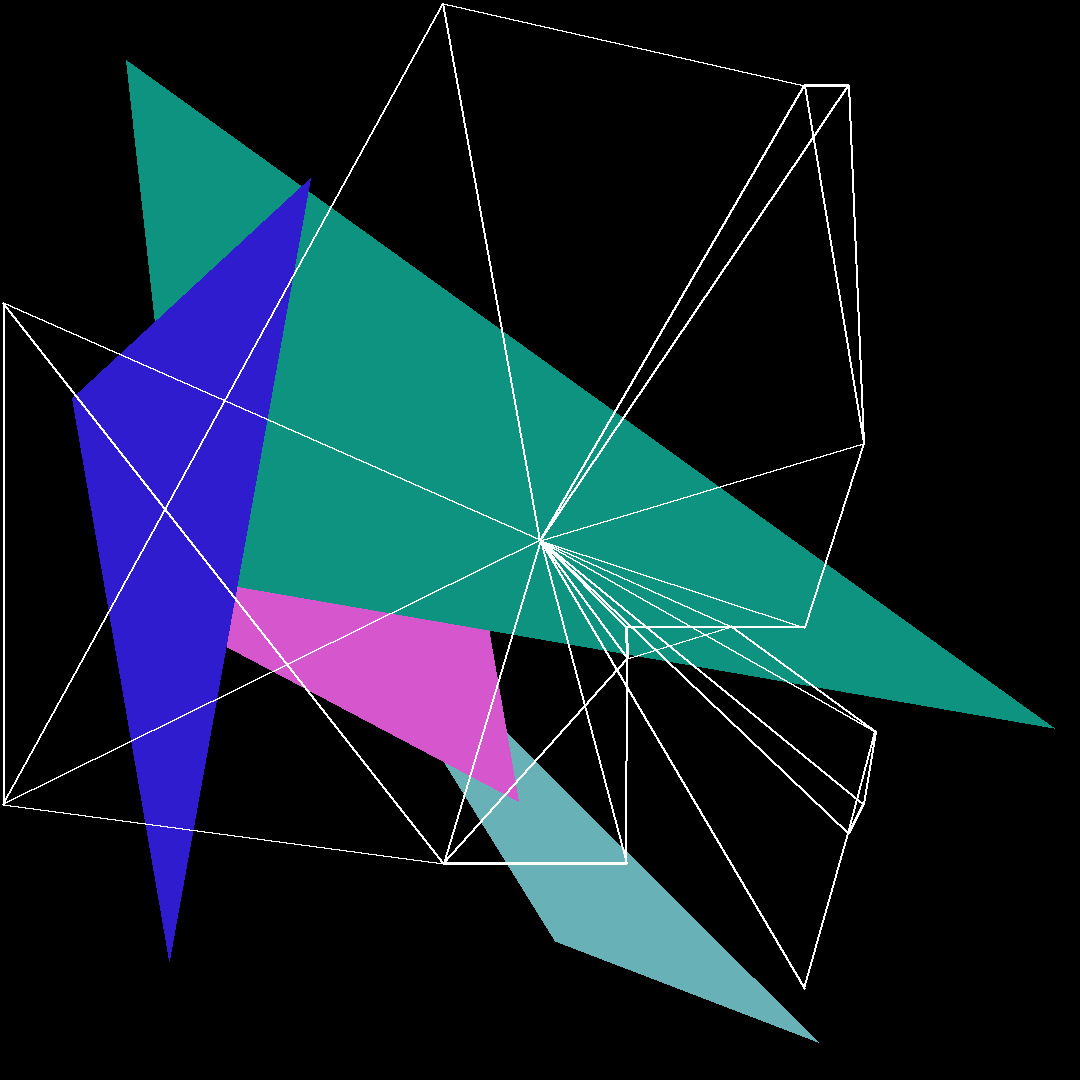
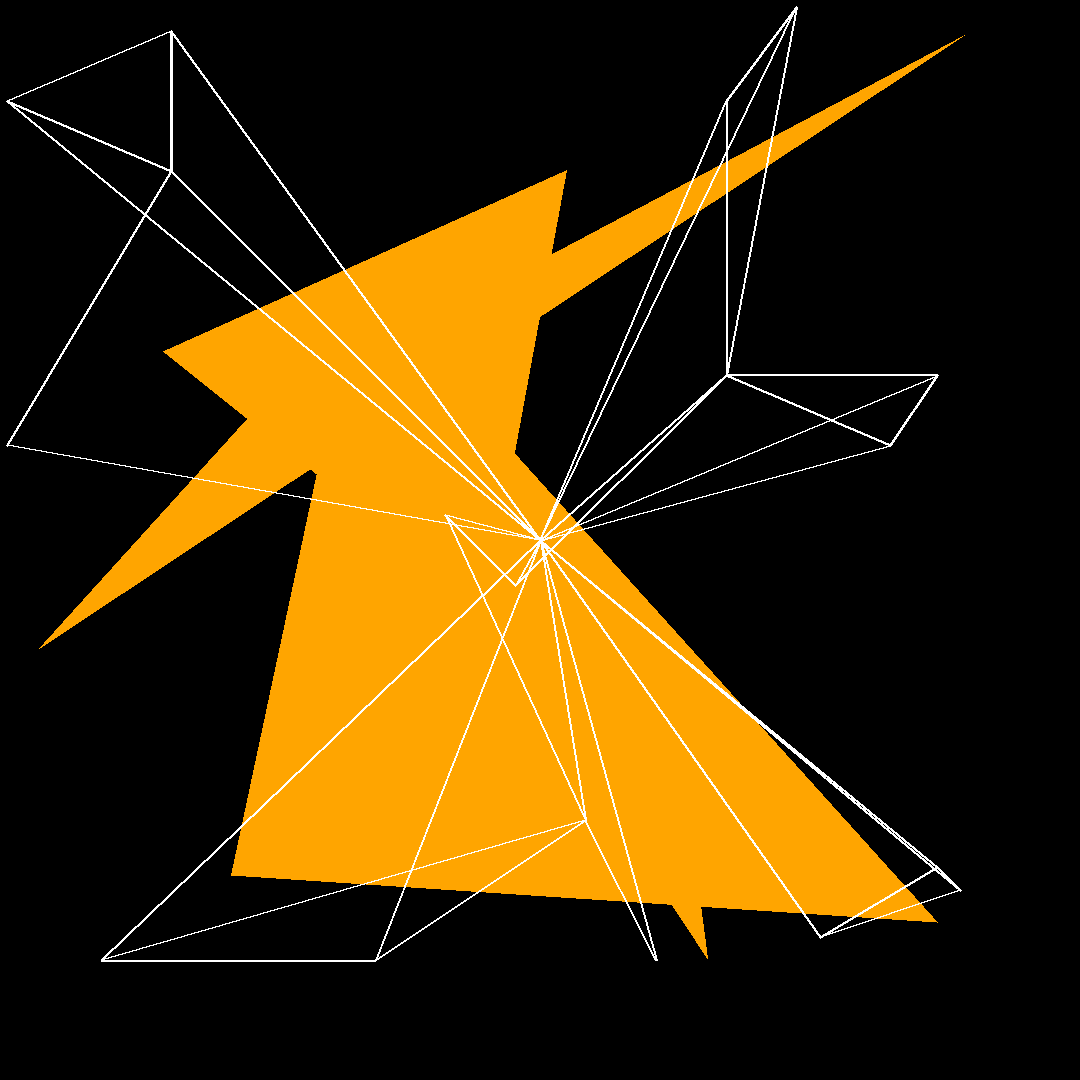
changes
-

diff --git a/generative_art.py b/generative_art.py
@@ -25,8 +25,8 @@ def draw_points(draw: ImageDraw, points: [], num_lines: int):
         draw.line(line_xy, fill=line_colour, width = 2)
 
 def normalise(x: int) -> int:
-    x = x**5
-    x = x // 1028
+    x = x*9000
+    x = x // 128
     x = x%1000
     return x
 
@@ -72,8 +72,8 @@ def make_image(hash_str: str):
     line_colour = (255,255,255)
 
     for i in range(4):
-        draw.polygon(generate_random_polygon(3, image_size, image_size, image_padding), fill = (random.randint(0,256),random.randint(0,256), random.randint(0,256)))
-
+        #draw.polygon(generate_random_polygon(3, image_size, image_size, image_padding), fill = (random.randint(0,256),random.randint(0,256), random.randint(0,256)))
+        draw.polygon(generate_random_polygon(3, image_size, image_size, image_padding), fill = (255,165,0))
     for i in range(0, len(hash_str), 2):
         x = normalise(ord(hash_str[i]))
         y = normalise(ord(hash_str[i+1]))
@@ -125,8 +125,8 @@ def generate(r_str):
     #save_image_sha256(make_image(hash_str_sha256), r_str)
 
     #save_image_sha512(make_image(hash_str_sha512), r_str)
-
-    image = make_image(hash_str_md5)
+    print(hash_str_sha1)
+    image = make_image(hash_str_sha1)
     image.save("test.png")
 
 
